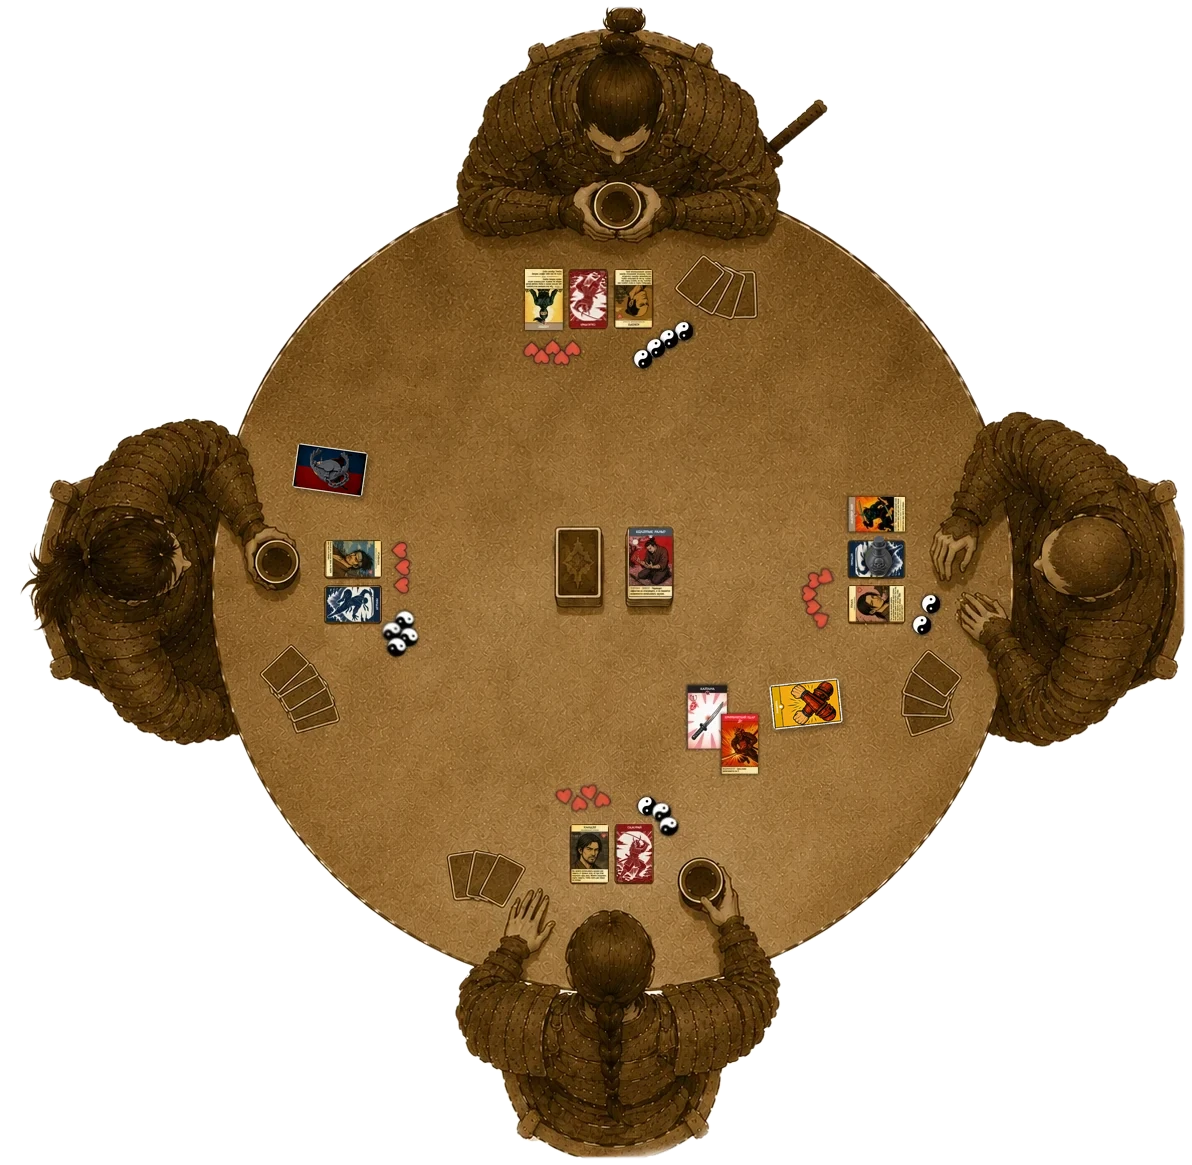
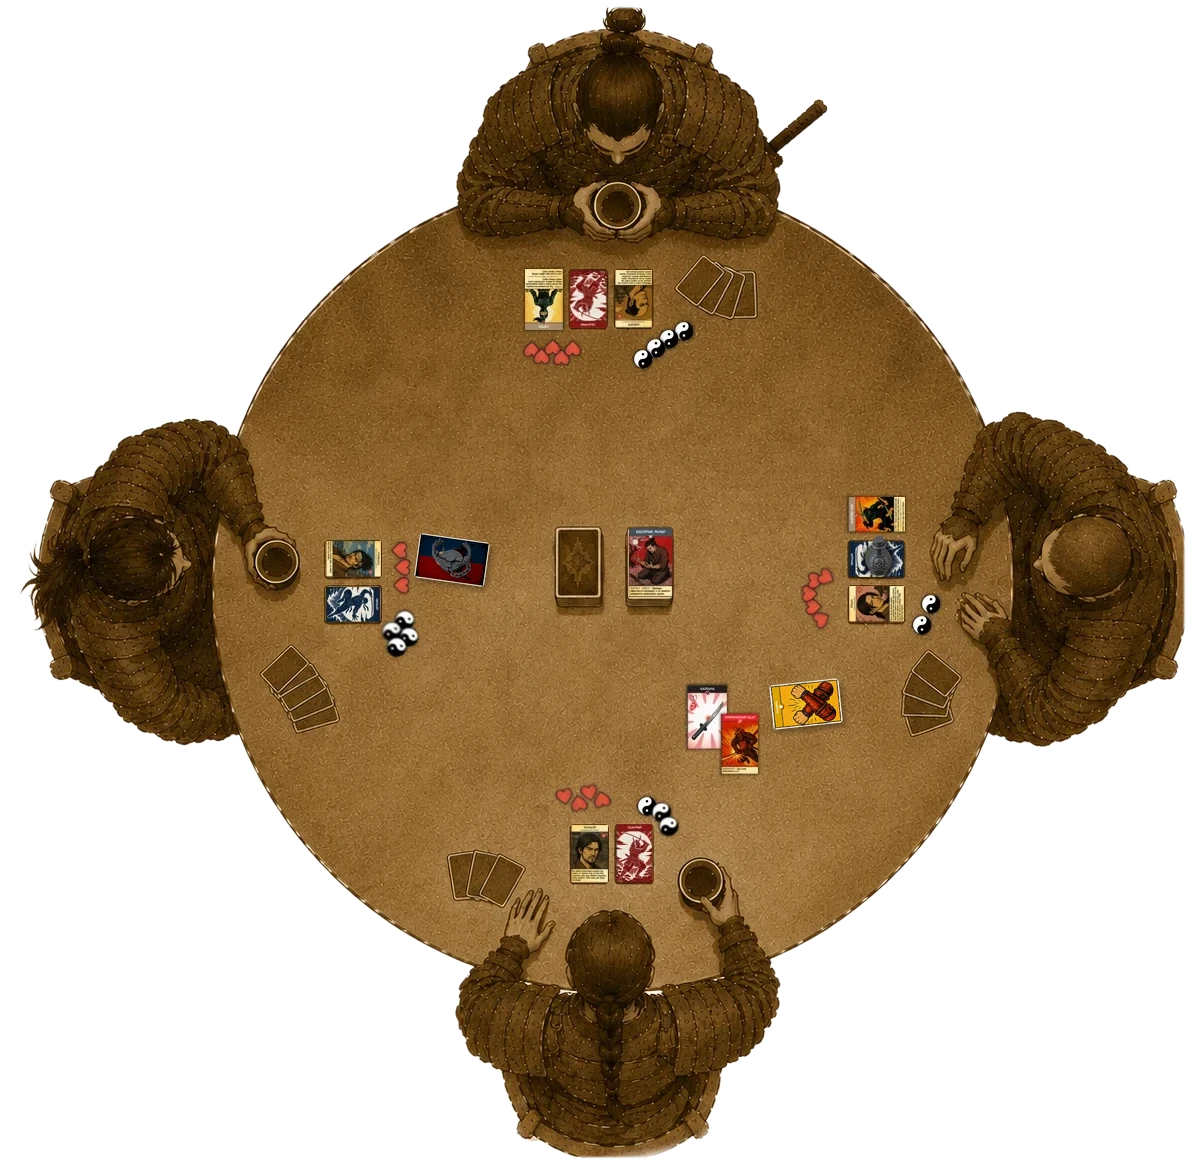
Стол: ловушка левого ниндзя рядом с его картами, стрелка атаки от нижнего самурая к правому ниндзя
Ловушка перемонтирована между сердцами левого игрока и колодой. Поверх
стола — пунктирная дуга хода атаки: от жетонов нижнего самурая над
выложенными оружием и модификатором к зоне правого ниндзя. Подпись
«Защита» ушла под карту защиты, чтобы не перекрывать стрелку.

Changed region(s): [[0.3414, 0.4326, 0.4346, 0.5253], [0.2483, 0.3708, 0.3104, 0.4326]]

diff --git a/rules/rules.html b/rules/rules.html
@@ -90,7 +90,7 @@
           <h2 class="chapter-title">Стол<span class="kanji" aria-hidden="true">卓</span></h2>
 <p>Так выглядит стол в середине партии на четверых: у каждого игрока перед собой своя зона, посреди стола — общие стопки. Игроки сидят через одного, поэтому напротив — союзник, а по бокам — противники.</p>
 <figure class="table-figure">
-        <div class="table-pic"><img src="media/table.webp" alt="" width="1192" height="1165"><svg class="table-overlay" viewBox="0 0 1192 1165" xmlns="http://www.w3.org/2000/svg" aria-hidden="true"><defs><marker id="tf-arrow" viewBox="0 0 10 10" refX="9" refY="5" markerWidth="5" markerHeight="5" orient="auto-start-reverse"><path d="M0,0 L10,5 L0,10 z"/></marker></defs><g class="tf-lines"><line x1="480" y1="300" x2="515" y2="300"/><line x1="598" y1="402" x2="593" y2="335"/><line x1="818" y1="357" x2="760" y2="315"/><line x1="340" y1="421" x2="335" y2="448"/><line x1="430" y1="473" x2="365" y2="532"/><line x1="521" y1="523" x2="560" y2="565"/><line x1="692" y1="513" x2="672" y2="530"/><line x1="815" y1="463" x2="855" y2="500"/><line x1="827" y1="545" x2="862" y2="552"/><line x1="825" y1="673" x2="815" y2="688"/><line x1="636" y1="715" x2="688" y2="712"/><line x1="476" y1="793" x2="565" y2="800"/><line x1="704" y1="812" x2="683" y2="812"/></g><g class="tf-labels"><g transform="translate(376,277)"><rect width="104" height="46" rx="8"/><text class="tf-txt" x="52.0" y="24.0">Стойка</text></g><g transform="translate(523,402)"><rect width="154" height="46" rx="8"/><text class="tf-txt" x="77.0" y="24.0">Карта роли</text></g><g transform="translate(810,357)"><rect width="79" height="46" rx="8"/><text class="tf-txt" x="39.5" y="24.0">Рука</text></g><g transform="translate(287,375)"><rect width="116" height="46" rx="8"/><text class="tf-txt" x="58.0" y="24.0">Ловушка</text></g><g transform="translate(390,427)"><rect width="129" height="46" rx="8"/><text class="tf-txt" x="64.5" y="24.0">Персонаж</text></g><g transform="translate(448,477)"><rect width="104" height="46" rx="8"/><text class="tf-txt" x="52.0" y="24.0">Колода</text></g><g transform="translate(674,467)"><rect width="92" height="46" rx="8"/><text class="tf-txt" x="46.0" y="24.0">Сброс</text></g><g transform="translate(732,417)"><rect width="116" height="46" rx="8"/><text class="tf-txt" x="58.0" y="24.0">Эффекты</text></g><g transform="translate(773,517)"><rect width="54" height="46" rx="8"/><text class="tf-txt" x="27.0" y="24.0">Яд</text></g><g transform="translate(788,627)"><rect width="104" height="46" rx="8"/><text class="tf-txt" x="52.0" y="24.0">Защита</text></g><g transform="translate(444,682)"><rect width="191" height="76" rx="8"/><text class="tf-txt" x="95.5" y="24.0">Атака: оружие</text><text class="tf-txt" x="95.5" y="54.0">+ модификатор</text></g><g transform="translate(384,767)"><rect width="92" height="46" rx="8"/><text class="tf-txt" x="46.0" y="24.0">Жизни</text></g><g transform="translate(704,789)"><rect width="191" height="46" rx="8"/><text class="tf-txt" x="95.5" y="24.0">Победные очки</text></g></g><g class="tf-tags"><g transform="translate(802,127)"><rect width="116" height="46" rx="23"/><text x="58.0" y="24.0">Самурай</text></g><g transform="translate(1028,372)"><rect width="104" height="46" rx="23"/><text x="52.0" y="24.0">Ниндзя</text></g><g transform="translate(702,1037)"><rect width="116" height="46" rx="23"/><text x="58.0" y="24.0">Самурай</text></g><g transform="translate(88,377)"><rect width="104" height="46" rx="23"/><text x="52.0" y="24.0">Ниндзя</text></g></g></svg></div>
+        <div class="table-pic"><img src="media/table.webp" alt="" width="1192" height="1165"><svg class="table-overlay" viewBox="0 0 1192 1165" xmlns="http://www.w3.org/2000/svg" aria-hidden="true"><defs><marker id="tf-arrow" viewBox="0 0 10 10" refX="9" refY="5" markerWidth="5" markerHeight="5" orient="auto-start-reverse"><path d="M0,0 L10,5 L0,10 z"/></marker><marker id="tf-arrow-big" viewBox="0 0 10 10" refX="8" refY="5" markerWidth="4" markerHeight="4" orient="auto-start-reverse"><path d="M0,0 L10,5 L0,10 z"/></marker></defs><path class="tf-flow" d="M 630 795 C 700 640 780 610 868 640"/><g class="tf-lines"><line x1="480" y1="300" x2="515" y2="300"/><line x1="598" y1="402" x2="593" y2="335"/><line x1="818" y1="357" x2="760" y2="315"/><line x1="359" y1="473" x2="430" y2="540"/><line x1="442" y1="468" x2="365" y2="532"/><line x1="521" y1="523" x2="560" y2="565"/><line x1="692" y1="513" x2="672" y2="530"/><line x1="815" y1="463" x2="855" y2="500"/><line x1="827" y1="545" x2="862" y2="552"/><line x1="813" y1="739" x2="812" y2="732"/><line x1="636" y1="715" x2="688" y2="712"/><line x1="476" y1="793" x2="565" y2="800"/><line x1="704" y1="812" x2="683" y2="812"/></g><g class="tf-labels"><g transform="translate(376,277)"><rect width="104" height="46" rx="8"/><text class="tf-txt" x="52.0" y="24.0">Стойка</text></g><g transform="translate(523,402)"><rect width="154" height="46" rx="8"/><text class="tf-txt" x="77.0" y="24.0">Карта роли</text></g><g transform="translate(810,357)"><rect width="79" height="46" rx="8"/><text class="tf-txt" x="39.5" y="24.0">Рука</text></g><g transform="translate(277,427)"><rect width="116" height="46" rx="8"/><text class="tf-txt" x="58.0" y="24.0">Ловушка</text></g><g transform="translate(406,422)"><rect width="129" height="46" rx="8"/><text class="tf-txt" x="64.5" y="24.0">Персонаж</text></g><g transform="translate(448,477)"><rect width="104" height="46" rx="8"/><text class="tf-txt" x="52.0" y="24.0">Колода</text></g><g transform="translate(674,467)"><rect width="92" height="46" rx="8"/><text class="tf-txt" x="46.0" y="24.0">Сброс</text></g><g transform="translate(732,417)"><rect width="116" height="46" rx="8"/><text class="tf-txt" x="58.0" y="24.0">Эффекты</text></g><g transform="translate(773,517)"><rect width="54" height="46" rx="8"/><text class="tf-txt" x="27.0" y="24.0">Яд</text></g><g transform="translate(763,739)"><rect width="104" height="46" rx="8"/><text class="tf-txt" x="52.0" y="24.0">Защита</text></g><g transform="translate(444,682)"><rect width="191" height="76" rx="8"/><text class="tf-txt" x="95.5" y="24.0">Атака: оружие</text><text class="tf-txt" x="95.5" y="54.0">+ модификатор</text></g><g transform="translate(384,767)"><rect width="92" height="46" rx="8"/><text class="tf-txt" x="46.0" y="24.0">Жизни</text></g><g transform="translate(704,789)"><rect width="191" height="46" rx="8"/><text class="tf-txt" x="95.5" y="24.0">Победные очки</text></g></g><g class="tf-tags"><g transform="translate(802,127)"><rect width="116" height="46" rx="23"/><text x="58.0" y="24.0">Самурай</text></g><g transform="translate(1028,372)"><rect width="104" height="46" rx="23"/><text x="52.0" y="24.0">Ниндзя</text></g><g transform="translate(702,1037)"><rect width="116" height="46" rx="23"/><text x="58.0" y="24.0">Самурай</text></g><g transform="translate(88,377)"><rect width="104" height="46" rx="23"/><text x="52.0" y="24.0">Ниндзя</text></g></g></svg></div>
         <figcaption>Стол на четверых: самурай — ниндзя — самурай — ниндзя.</figcaption>
       </figure>
 <p class="table-note">Ловушка кладётся перед собой рубашкой вверх, сверху — фигурка капкана; яд отмечают фигуркой-бутылкой на карте роли. Аура кладётся перед собой в открытую; на этой картинке её нет.</p>

diff --git a/rules/rules-en.html b/rules/rules-en.html
@@ -90,7 +90,7 @@
           <h2 class="chapter-title">The Table<span class="kanji" aria-hidden="true">卓</span></h2>
 <p>This is what a four-player table looks like mid-game: every player has their own area in front of them, and the shared piles sit in the middle. Seats alternate, so the player opposite is your ally and the players on either side are enemies.</p>
 <figure class="table-figure">
-        <div class="table-pic"><img src="media/table.webp" alt="" width="1192" height="1165"><svg class="table-overlay" viewBox="0 0 1192 1165" xmlns="http://www.w3.org/2000/svg" aria-hidden="true"><defs><marker id="tf-arrow" viewBox="0 0 10 10" refX="9" refY="5" markerWidth="5" markerHeight="5" orient="auto-start-reverse"><path d="M0,0 L10,5 L0,10 z"/></marker></defs><g class="tf-lines"><line x1="480" y1="300" x2="515" y2="300"/><line x1="598" y1="402" x2="593" y2="335"/><line x1="818" y1="357" x2="760" y2="315"/><line x1="340" y1="421" x2="335" y2="448"/><line x1="430" y1="473" x2="365" y2="532"/><line x1="521" y1="523" x2="560" y2="565"/><line x1="692" y1="513" x2="672" y2="530"/><line x1="815" y1="463" x2="855" y2="500"/><line x1="852" y1="550" x2="862" y2="552"/><line x1="825" y1="673" x2="815" y2="688"/><line x1="642" y1="715" x2="688" y2="712"/><line x1="470" y1="793" x2="565" y2="800"/><line x1="698" y1="812" x2="683" y2="812"/></g><g class="tf-labels"><g transform="translate(376,277)"><rect width="104" height="46" rx="8"/><text class="tf-txt" x="52.0" y="24.0">Stance</text></g><g transform="translate(530,402)"><rect width="141" height="46" rx="8"/><text class="tf-txt" x="70.5" y="24.0">Role card</text></g><g transform="translate(810,357)"><rect width="79" height="46" rx="8"/><text class="tf-txt" x="39.5" y="24.0">Hand</text></g><g transform="translate(306,375)"><rect width="79" height="46" rx="8"/><text class="tf-txt" x="39.5" y="24.0">Trap</text></g><g transform="translate(384,427)"><rect width="141" height="46" rx="8"/><text class="tf-txt" x="70.5" y="24.0">Character</text></g><g transform="translate(460,477)"><rect width="79" height="46" rx="8"/><text class="tf-txt" x="39.5" y="24.0">Deck</text></g><g transform="translate(662,467)"><rect width="116" height="46" rx="8"/><text class="tf-txt" x="58.0" y="24.0">Discard</text></g><g transform="translate(732,417)"><rect width="116" height="46" rx="8"/><text class="tf-txt" x="58.0" y="24.0">Effects</text></g><g transform="translate(748,517)"><rect width="104" height="46" rx="8"/><text class="tf-txt" x="52.0" y="24.0">Poison</text></g><g transform="translate(782,627)"><rect width="116" height="46" rx="8"/><text class="tf-txt" x="58.0" y="24.0">Defense</text></g><g transform="translate(438,682)"><rect width="203" height="76" rx="8"/><text class="tf-txt" x="101.5" y="24.0">Attack: weapon</text><text class="tf-txt" x="101.5" y="54.0">+ modifier</text></g><g transform="translate(390,767)"><rect width="79" height="46" rx="8"/><text class="tf-txt" x="39.5" y="24.0">Life</text></g><g transform="translate(698,789)"><rect width="203" height="46" rx="8"/><text class="tf-txt" x="101.5" y="24.0">Victory points</text></g></g><g class="tf-tags"><g transform="translate(802,127)"><rect width="116" height="46" rx="23"/><text x="58.0" y="24.0">Samurai</text></g><g transform="translate(1034,372)"><rect width="92" height="46" rx="23"/><text x="46.0" y="24.0">Ninja</text></g><g transform="translate(702,1037)"><rect width="116" height="46" rx="23"/><text x="58.0" y="24.0">Samurai</text></g><g transform="translate(94,377)"><rect width="92" height="46" rx="23"/><text x="46.0" y="24.0">Ninja</text></g></g></svg></div>
+        <div class="table-pic"><img src="media/table.webp" alt="" width="1192" height="1165"><svg class="table-overlay" viewBox="0 0 1192 1165" xmlns="http://www.w3.org/2000/svg" aria-hidden="true"><defs><marker id="tf-arrow" viewBox="0 0 10 10" refX="9" refY="5" markerWidth="5" markerHeight="5" orient="auto-start-reverse"><path d="M0,0 L10,5 L0,10 z"/></marker><marker id="tf-arrow-big" viewBox="0 0 10 10" refX="8" refY="5" markerWidth="4" markerHeight="4" orient="auto-start-reverse"><path d="M0,0 L10,5 L0,10 z"/></marker></defs><path class="tf-flow" d="M 630 795 C 700 640 780 610 868 640"/><g class="tf-lines"><line x1="480" y1="300" x2="515" y2="300"/><line x1="598" y1="402" x2="593" y2="335"/><line x1="818" y1="357" x2="760" y2="315"/><line x1="359" y1="473" x2="430" y2="540"/><line x1="442" y1="468" x2="365" y2="532"/><line x1="521" y1="523" x2="560" y2="565"/><line x1="692" y1="513" x2="672" y2="530"/><line x1="815" y1="463" x2="855" y2="500"/><line x1="852" y1="550" x2="862" y2="552"/><line x1="813" y1="739" x2="812" y2="732"/><line x1="642" y1="715" x2="688" y2="712"/><line x1="470" y1="793" x2="565" y2="800"/><line x1="698" y1="812" x2="683" y2="812"/></g><g class="tf-labels"><g transform="translate(376,277)"><rect width="104" height="46" rx="8"/><text class="tf-txt" x="52.0" y="24.0">Stance</text></g><g transform="translate(530,402)"><rect width="141" height="46" rx="8"/><text class="tf-txt" x="70.5" y="24.0">Role card</text></g><g transform="translate(810,357)"><rect width="79" height="46" rx="8"/><text class="tf-txt" x="39.5" y="24.0">Hand</text></g><g transform="translate(296,427)"><rect width="79" height="46" rx="8"/><text class="tf-txt" x="39.5" y="24.0">Trap</text></g><g transform="translate(400,422)"><rect width="141" height="46" rx="8"/><text class="tf-txt" x="70.5" y="24.0">Character</text></g><g transform="translate(460,477)"><rect width="79" height="46" rx="8"/><text class="tf-txt" x="39.5" y="24.0">Deck</text></g><g transform="translate(662,467)"><rect width="116" height="46" rx="8"/><text class="tf-txt" x="58.0" y="24.0">Discard</text></g><g transform="translate(732,417)"><rect width="116" height="46" rx="8"/><text class="tf-txt" x="58.0" y="24.0">Effects</text></g><g transform="translate(748,517)"><rect width="104" height="46" rx="8"/><text class="tf-txt" x="52.0" y="24.0">Poison</text></g><g transform="translate(757,739)"><rect width="116" height="46" rx="8"/><text class="tf-txt" x="58.0" y="24.0">Defense</text></g><g transform="translate(438,682)"><rect width="203" height="76" rx="8"/><text class="tf-txt" x="101.5" y="24.0">Attack: weapon</text><text class="tf-txt" x="101.5" y="54.0">+ modifier</text></g><g transform="translate(390,767)"><rect width="79" height="46" rx="8"/><text class="tf-txt" x="39.5" y="24.0">Life</text></g><g transform="translate(698,789)"><rect width="203" height="46" rx="8"/><text class="tf-txt" x="101.5" y="24.0">Victory points</text></g></g><g class="tf-tags"><g transform="translate(802,127)"><rect width="116" height="46" rx="23"/><text x="58.0" y="24.0">Samurai</text></g><g transform="translate(1034,372)"><rect width="92" height="46" rx="23"/><text x="46.0" y="24.0">Ninja</text></g><g transform="translate(702,1037)"><rect width="116" height="46" rx="23"/><text x="58.0" y="24.0">Samurai</text></g><g transform="translate(94,377)"><rect width="92" height="46" rx="23"/><text x="46.0" y="24.0">Ninja</text></g></g></svg></div>
         <figcaption>A table for four: samurai — ninja — samurai — ninja.</figcaption>
       </figure>
 <p class="table-note">A trap is placed face down in front of you with the trap figure on top; poison is marked by a bottle figure on the role card. An aura goes face up in front of you; it is not shown in this picture.</p>

diff --git a/rules/rules.css b/rules/rules.css
@@ -529,7 +529,9 @@ section.chapter::after { content: ""; display: block; clear: both; }
   font-family: 'PT Sans Narrow', 'PT Sans', Arial, sans-serif;
 }
 .table-overlay .tf-lines line { stroke: var(--vermilion-dk); stroke-width: 3.5; marker-end: url(#tf-arrow); }
-.table-overlay #tf-arrow path { fill: var(--vermilion-dk); }
+.table-overlay #tf-arrow path, .table-overlay #tf-arrow-big path { fill: var(--vermilion-dk); }
+/* Стрелка хода атаки: пунктир от атакующего к цели, поверх карт */
+.table-overlay .tf-flow { fill: none; stroke: var(--vermilion-dk); stroke-width: 10; stroke-dasharray: 18 11; stroke-linecap: round; opacity: .6; marker-end: url(#tf-arrow-big); }
 .table-overlay .tf-labels rect { fill: var(--paper-light); stroke: var(--gold); stroke-width: 2; }
 .table-overlay .tf-num { fill: var(--vermilion-dk); }
 .table-overlay .tf-numtxt { fill: var(--paper-light); font-size: 24px; font-weight: 700; text-anchor: middle; dominant-baseline: central; }

diff --git a/tools/table_fig.py b/tools/table_fig.py
@@ -18,7 +18,8 @@ W, H = 1192, 1165
 # правый: столбик эффектов (878,515…605), бутылка яда на карте роли (879,556),
 # карта защиты (806,704); нижний: сердца (585,800), очки (655,810), персонаж
 # (587,855); центр: колода (578,565), сброс (650,565); атака (705,715)+(740,740);
-# ловушка левого игрока — рубашка с капканом (330,470).
+# ловушка левого игрока — рубашка с капканом (452,560), между его сердцами и колодой.
+# Стрелка атаки: нижний самурай атакует правого ниндзя (FLOW).
 # Бутылка, капкан и карта защиты дорисованы поверх фото (rules/media/obsolete/
 # table-v1.webp — исходник без них) скриптом-монтажом: фигурки — /img, карта —
 # превью 48.webp, рубашка ловушки — media/backs/default_real.png; слои
@@ -27,19 +28,21 @@ LABELS = [
     ('stance',    (428, 300), (515, 300)),    # слева от стойки, у кромки
     ('role',      (600, 425), (593, 335)),    # под картами верхнего игрока
     ('hand',      (850, 380), (760, 315)),    # справа-снизу от веера
-    ('trap',      (345, 398), (335, 448)),    # над ловушкой левого игрока
-    ('character', (455, 450), (365, 532)),    # верхняя левая четверть
+    ('trap',      (335, 450), (430, 540)),    # слева-сверху от ловушки левого игрока
+    ('character', (470, 445), (365, 532)),    # верхняя левая четверть
     ('deck',      (500, 500), (560, 565)),    # слева-сверху от колоды
     ('discard',   (720, 490), (672, 530)),    # справа-сверху от сброса
     ('effect',    (790, 440), (855, 500)),    # над столбиком эффектов
     ('poison',    (800, 540), (862, 552)),    # бутылка яда на карте роли
-    ('defense',   (840, 650), (815, 688)),    # карта защиты у атаки
+    ('defense',   (815, 762), (812, 732)),    # под картой защиты
     ('attack',    (540, 720), (688, 712)),    # слева от выложенной атаки
     ('life',      (430, 790), (565, 800)),    # слева от сердец нижнего игрока
     ('vp',        (800, 812), (683, 812)),    # справа от очков нижнего игрока
 ]
 # фракционные метки у фигур: (текст-ключ, центр)
 TAGS = [('samurai', (860, 150)), ('ninja', (1080, 395)), ('samurai', (760, 1060)), ('ninja', (140, 400))]
+# стрелка хода атаки: от нижнего самурая через выложенные карты к правому ниндзя
+FLOW = 'M 630 795 C 700 640 780 610 868 640'   # дугой над выложенными картами
 
 TXT = {
  'ru': {
@@ -108,7 +111,9 @@ def svg(lang):
     t = TXT[lang]
     out = []
     out.append(f'<svg class="table-overlay" viewBox="0 0 {W} {H}" xmlns="http://www.w3.org/2000/svg" aria-hidden="true">')
-    out.append('<defs><marker id="tf-arrow" viewBox="0 0 10 10" refX="9" refY="5" markerWidth="5" markerHeight="5" orient="auto-start-reverse"><path d="M0,0 L10,5 L0,10 z"/></marker></defs>')
+    out.append('<defs><marker id="tf-arrow" viewBox="0 0 10 10" refX="9" refY="5" markerWidth="5" markerHeight="5" orient="auto-start-reverse"><path d="M0,0 L10,5 L0,10 z"/></marker>'
+               '<marker id="tf-arrow-big" viewBox="0 0 10 10" refX="8" refY="5" markerWidth="4" markerHeight="4" orient="auto-start-reverse"><path d="M0,0 L10,5 L0,10 z"/></marker></defs>')
+    out.append(f'<path class="tf-flow" d="{FLOW}"/>')
     # линии — под плашками
     out.append('<g class="tf-lines">')
     for key, (lx, ly), (tx, ty) in LABELS:
